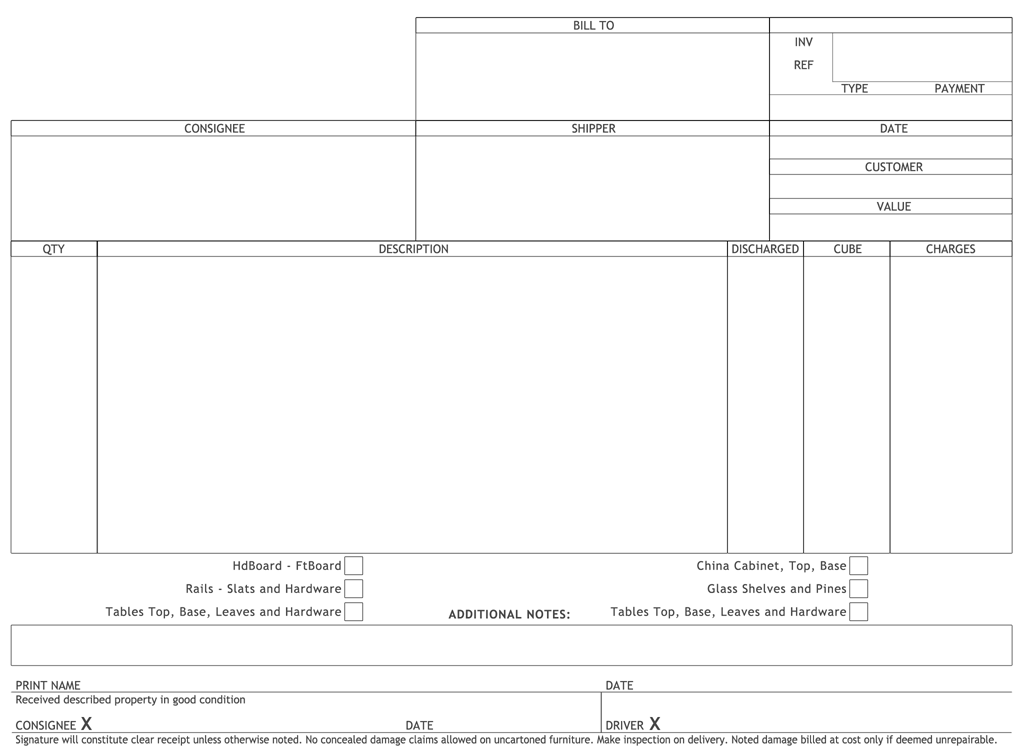
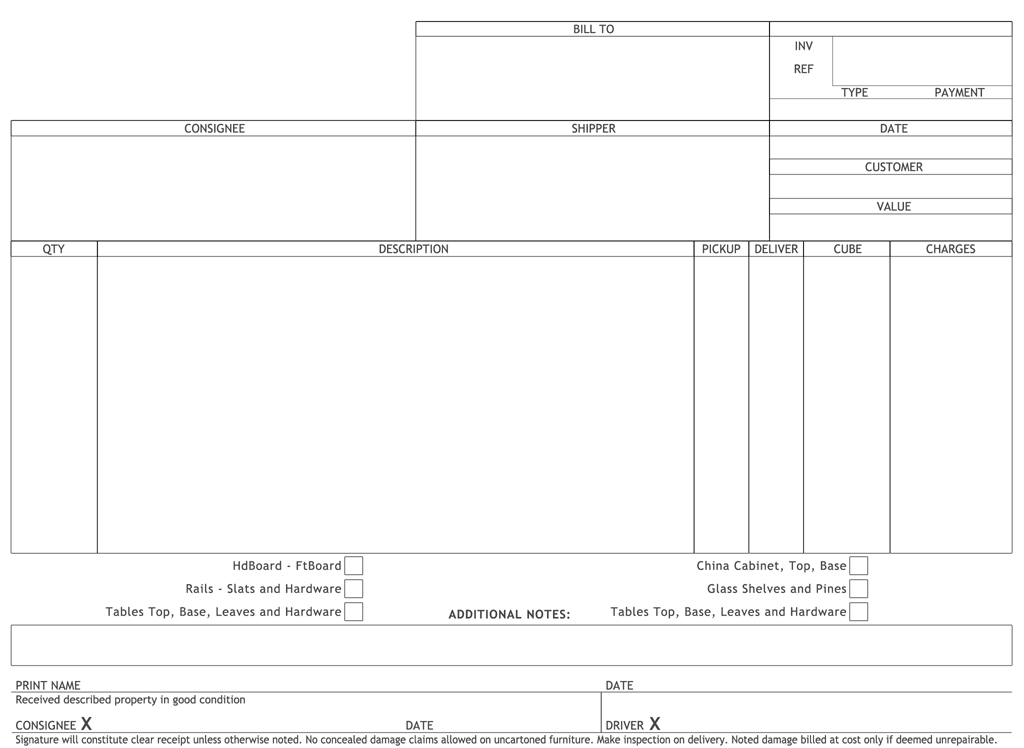
added pickup column, fixed name of delivery column, fixed title of pdf button

diff --git a/Ukay/Ukay/FormViewController.m b/Ukay/Ukay/FormViewController.m
@@ -26,6 +26,7 @@
     NSMutableDictionary *_checkButtonImages;
     NSMutableDictionary *_signatureViews;
     NSMutableDictionary *_itemsDischargedButtonImages;
+    NSMutableArray *_itemsPickedUp;
     NSMutableArray *_itemsDischarged;
     BOOL _keyboardShowing;
 }
@@ -42,6 +43,7 @@
 @property (nonatomic, retain) IBOutlet UILabel *valueLabel;
 @property (nonatomic, retain) IBOutlet UITextView *quantityTextView;
 @property (nonatomic, retain) IBOutlet UITextView *descriptionTextView;
+@property (nonatomic, retain) IBOutlet UIView *pickedupView;
 @property (nonatomic, retain) IBOutlet UIView *dischargedView;
 @property (nonatomic, retain) IBOutlet UITextView *cubeTextView;
 @property (nonatomic, retain) IBOutlet UITextView *chargesTextView;
@@ -84,6 +86,7 @@
     [_descriptionTextView release];
     [_cubeTextView release];
     [_chargesTextView release];
+    [_pickedupView release];
     [_dischargedView release];
     [_additionalNotesTextView release];
     [_printName release];
@@ -101,6 +104,7 @@
     [_optionsButton release];
     [_signatureViews release];
     [_itemsDischargedButtonImages release];
+    [_itemsPickedUp release];
     [_itemsDischarged release];
     
     if(_form) {
@@ -131,7 +135,7 @@
     }
     
     [self initializeFormBody];
-    [self initializeDischargedItems];
+    [self initializeDischargedAndPickedUpItems];
     [self initializeFormFooter];    
 }
 
@@ -149,6 +153,7 @@
     self.valueLabel = nil;
     self.quantityTextView = nil;
     self.descriptionTextView = nil;
+    self.pickedupView = nil;
     self.dischargedView = nil;
     self.cubeTextView = nil;
     self.chargesTextView = nil;
@@ -312,19 +317,29 @@
     self.chargesTextView.text = charges;
 }
 
-- (void)initializeDischargedItems
+- (void)initializeDischargedAndPickedUpItems
 {
     _itemsDischargedButtonImages = [[NSMutableDictionary alloc] initWithCapacity:2];
     [_itemsDischargedButtonImages setObject:[UIImage imageNamed:@"box-checked.png"] forKey:@"checked"];
     [_itemsDischargedButtonImages setObject:[UIImage imageNamed:@"box-unchecked.png"] forKey:@"unchecked"];
     
+    _itemsPickedUp = [[NSMutableArray alloc] init];
     _itemsDischarged = [[NSMutableArray alloc] init];
     CGRect buttonFrame = CGRectMake((self.dischargedView.frame.size.width / 2.0f) - 7, 6, 19, 19);
     
     for(int i = 0; i < [self.form.items count]; i++) {
+        [_itemsPickedUp addObject:[NSNumber numberWithBool:YES]];
         [_itemsDischarged addObject:[NSNumber numberWithBool:YES]];
         
         UIButton *button = [UIButton buttonWithType:UIButtonTypeCustom];
+        [button setFrame:buttonFrame];
+        [button setImage:[_itemsDischargedButtonImages objectForKey:@"checked"] forState:UIControlStateNormal];
+        [button addTarget:self action:@selector(pickedUpButtonPressed:) forControlEvents:UIControlEventTouchUpInside];
+        [button setTag:i];
+        
+        [self.pickedupView addSubview:button];
+        
+        button = [UIButton buttonWithType:UIButtonTypeCustom];
         [button setFrame:buttonFrame];
         [button setImage:[_itemsDischargedButtonImages objectForKey:@"checked"] forState:UIControlStateNormal];
         [button addTarget:self action:@selector(dischargedButtonPressed:) forControlEvents:UIControlEventTouchUpInside];
@@ -374,10 +389,28 @@
                                                              delegate:self
                                                     cancelButtonTitle:nil
                                                destructiveButtonTitle:nil
-                                                    otherButtonTitles:@"Complete Record", @"Generate PDF", @"Attach Photos", @"Manage Attached Photos", @"Back", nil];
+                                                    otherButtonTitles:@"Complete Record", @"Send Receipt", @"Attach Photos", @"Manage Attached Photos", @"Back", nil];
     
     [actionSheet showInView:self.view];
     [actionSheet release];
+}
+
+- (IBAction)pickedUpButtonPressed:(id)sender
+{
+    UIButton *button = (UIButton *)sender;
+    NSInteger buttonNumber = button.tag;
+    
+    BOOL checked;
+    
+    if([button imageForState:UIControlStateNormal] == [_itemsDischargedButtonImages objectForKey:@"checked"]) {
+        [button setImage:[_itemsDischargedButtonImages objectForKey:@"unchecked"] forState:UIControlStateNormal];
+        checked = NO;
+    } else {
+        [button setImage:[_itemsDischargedButtonImages objectForKey:@"checked"] forState:UIControlStateNormal];
+        checked = YES;
+    }
+    
+    [_itemsPickedUp replaceObjectAtIndex:buttonNumber withObject:[NSNumber numberWithBool:checked]];
 }
 
 - (IBAction)dischargedButtonPressed:(id)sender

diff --git a/Ukay/Ukay/FormRepository.m b/Ukay/Ukay/FormRepository.m
@@ -67,19 +67,20 @@
 {
     Form *form = [[[Form alloc] init] autorelease];
     
-    form.driver = [formComponents objectAtIndex:0];
-    form.helper = [formComponents objectAtIndex:1];
-    form.routeName = [formComponents objectAtIndex:2];
-    form.billTo = [formComponents objectAtIndex:8];
-    form.payment = [formComponents objectAtIndex:14];
-    form.invoice = [formComponents objectAtIndex:4];
-    form.reference = [formComponents objectAtIndex:5];
-    form.type = [formComponents objectAtIndex:9];
-    form.consignee = [formComponents objectAtIndex:6];
-    form.shipper = [formComponents objectAtIndex:7];
-    form.date = [formComponents objectAtIndex:3];
-    form.customer = [formComponents objectAtIndex:15];
-    form.value = [formComponents objectAtIndex:16];
+    form.title = [formComponents objectAtIndex:0];
+    form.driver = [formComponents objectAtIndex:1];
+    form.helper = [formComponents objectAtIndex:2];
+    form.routeName = [formComponents objectAtIndex:3];
+    form.billTo = [formComponents objectAtIndex:9];
+    form.payment = [formComponents objectAtIndex:15];
+    form.invoice = [formComponents objectAtIndex:5];
+    form.reference = [formComponents objectAtIndex:6];
+    form.type = [formComponents objectAtIndex:10];
+    form.consignee = [formComponents objectAtIndex:7];
+    form.shipper = [formComponents objectAtIndex:8];
+    form.date = [formComponents objectAtIndex:4];
+    form.customer = [formComponents objectAtIndex:16];
+    form.value = [formComponents objectAtIndex:17];
     
     return form;
 }
@@ -88,10 +89,10 @@
 {
     Item *item = [[Item alloc] init];
     
-    item.quantity = [formComponents objectAtIndex:10];
-    item.description = [formComponents objectAtIndex:11];
-    item.cube = [formComponents objectAtIndex:12];
-    item.charges = [formComponents objectAtIndex:13];
+    item.quantity = [formComponents objectAtIndex:11];
+    item.description = [formComponents objectAtIndex:12];
+    item.cube = [formComponents objectAtIndex:13];
+    item.charges = [formComponents objectAtIndex:14];
     
     [form addItem:item];
     

diff --git a/Ukay/Ukay/Form.h b/Ukay/Ukay/Form.h
@@ -18,6 +18,7 @@ typedef enum {
 
 @property (nonatomic, assign) FormState formState;
 
+@property (nonatomic, retain) NSString *title;
 @property (nonatomic, retain) NSString *driver;
 @property (nonatomic, retain) NSString *helper;
 @property (nonatomic, retain) NSString *routeName;

diff --git a/Ukay/Ukay/Form.m b/Ukay/Ukay/Form.m
@@ -23,6 +23,7 @@
 
 - (void)dealloc
 {
+    [_title release];
     [_driver release];
     [_helper release];
     [_routeName release];
